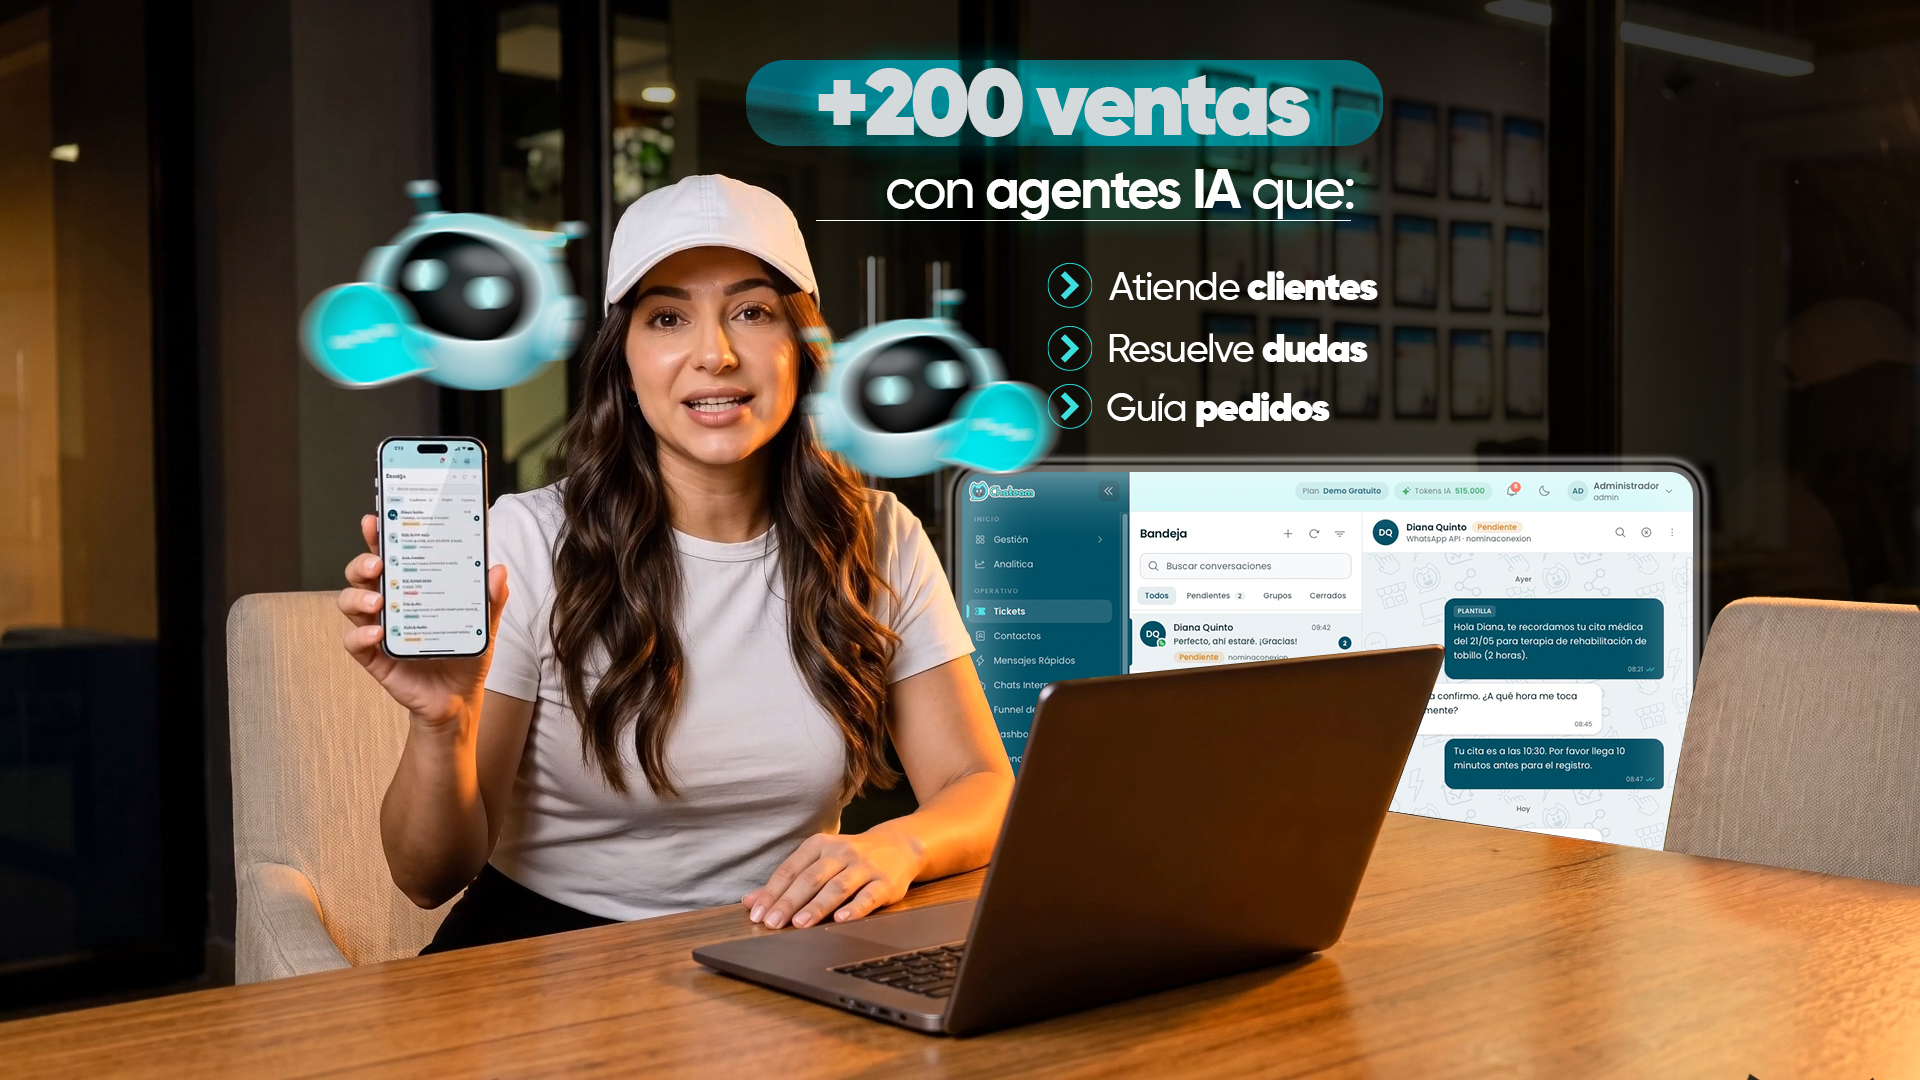
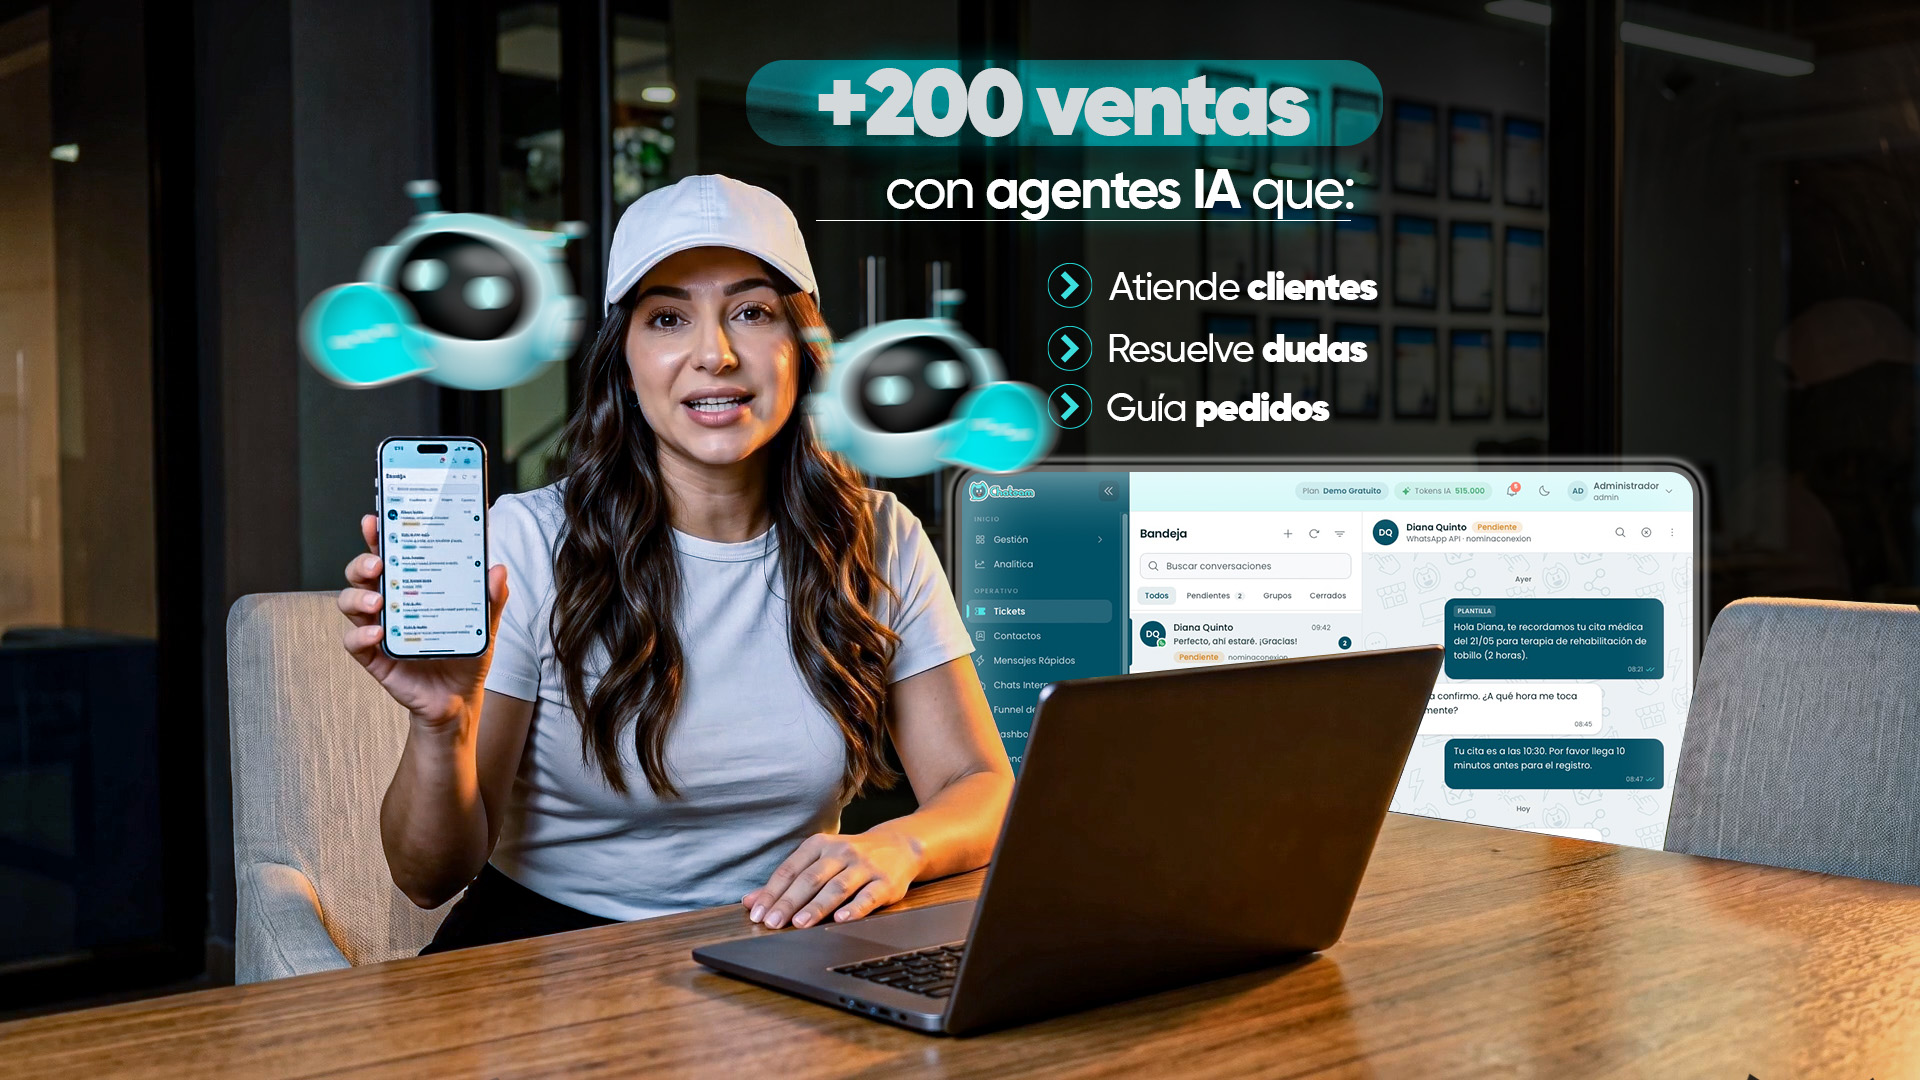
envio-17

diff --git a/index.html b/index.html
@@ -343,7 +343,9 @@
                 <p>Enlaza tus campañas para saber de dónde vienen tus clientes y medir cada canal.</p>
               </div>
             </article>
+            <a class="btn btn--primary btn--lg" href="#contacto">Empieza tu prueba gratis<span class="icon i-calendar-check" aria-hidden="true"></span></a>
           </div>
+          
         </div>
       </div>
     </section>
@@ -373,9 +375,7 @@
             <p>Gestiona todas tus conversaciones, automatiza el seguimiento y usa los informes para mejorar cada semana.</p>
           </article>
         </div>
-        <div class="steps-cta reveal">
-          <a class="btn btn--primary btn--lg" href="#contacto">Empieza tu prueba gratis</a>
-        </div>
+        
       </div>
     </section>
 
@@ -391,7 +391,7 @@
               un mismo lugar, y conecta tus herramientas de marketing para medir de dónde vienen tus clientes.
             </p>
             <div class="steps-cta reveal">
-          <a class="btn btn--primary btn--lg" href="#contacto">Empieza tu prueba gratis</a>
+          <a class="btn btn--primary btn--lg" href="#contacto">Empieza tu prueba gratis<span class="icon i-feature-bots" aria-hidden="true"></span></a>
         </div>
            
           </div>
@@ -466,6 +466,9 @@
             <h3>Turismo y hospitalidad</h3>
             <p>Confirma reservas, comparte itinerarios y atiende consultas a cualquier hora.</p>
           </article>
+        </div>
+         <div class="steps-cta reveal">
+          <a class="btn btn--primary btn--lg" href="#contacto">Automatiza tu atención</a>
         </div>
       </div>
     </section>
